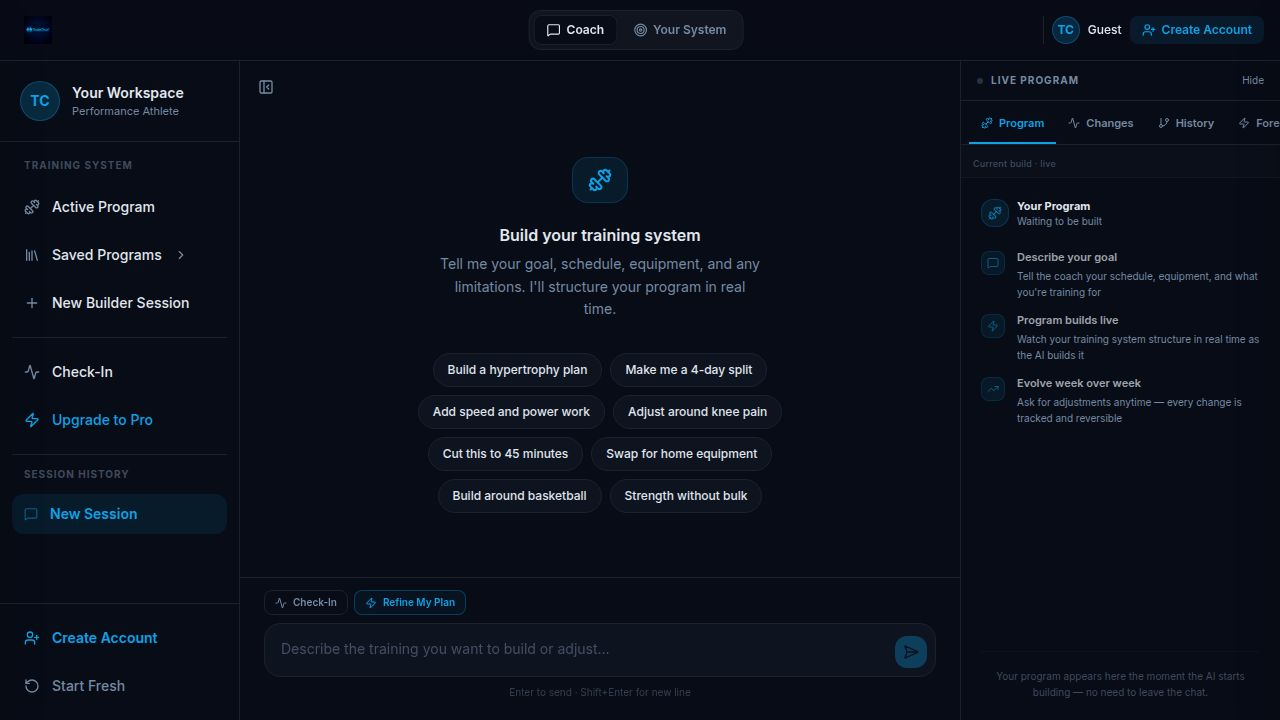
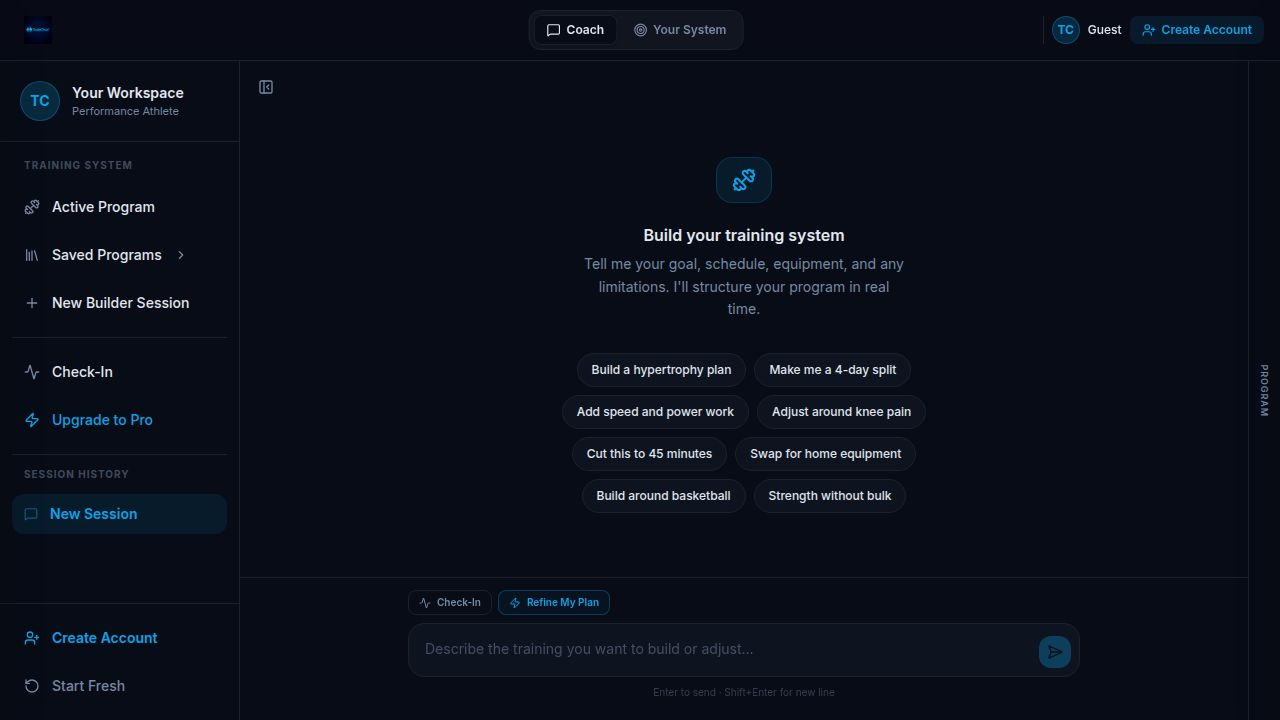
Improve scrolling behavior in chat to prevent unwanted page jumps
Remove several instances of `window.scrollTo({ top: 0 })` and the `visualViewport` resize listener from `chat.tsx` to stabilize scrolling, especially for anonymous users.

Replit-Commit-Author: Agent
Replit-Commit-Session-Id: f4cd81e6-4c30-489e-8296-77b2feafe4b3
Replit-Commit-Checkpoint-Type: full_checkpoint
Replit-Commit-Event-Id: c2d1fbe0-b381-4fca-935c-c738434bf223
Replit-Commit-Screenshot-Url: https://storage.googleapis.com/screenshot-production-us-central1/59f415d3-f9ee-4c3a-be88-6f400138b25b/f4cd81e6-4c30-489e-8296-77b2feafe4b3/ZxaoOsf
Replit-Helium-Checkpoint-Created: true

diff --git a/artifacts/trainchat/src/pages/chat.tsx b/artifacts/trainchat/src/pages/chat.tsx
@@ -419,32 +419,8 @@ export default function Chat() {
     if (!userScrolledUpRef.current && messagesEndRef.current) {
       messagesEndRef.current.scrollIntoView({ behavior: "smooth", block: "end" });
     }
-    // Re-anchor the page viewport to the agent section for anonymous/deviceId users.
-    // Prevents new messages / SSE stream growth from drifting the page into the
-    // conversion floor below the 100dvh workspace.
-    if (!!(me as any)?.isAnonymous) {
-      window.scrollTo({ top: 0, behavior: "instant" as ScrollBehavior });
-    }
   }, [messages, stream.isActive, stream.state.phase, stream.state.acknowledgment, me]);
 
-  // Mobile Safari / iOS keyboard fix for anonymous users.
-  // When the virtual keyboard opens, Safari scrolls the document to keep the
-  // focused input visible. For anonymous users this pushes the viewport into
-  // the conversion floor. visualViewport "resize" fires when the keyboard
-  // opens/closes — we use it to snap back to the top of the page.
-  useEffect(() => {
-    const vv = window.visualViewport;
-    if (!vv || !(me as any)?.isAnonymous) return;
-
-    function handleViewportResize() {
-      requestAnimationFrame(() => {
-        window.scrollTo({ top: 0, behavior: "instant" as ScrollBehavior });
-      });
-    }
-
-    vv.addEventListener("resize", handleViewportResize);
-    return () => vv.removeEventListener("resize", handleViewportResize);
-  }, [me]);
 
   // Panel auto-open rules:
   // 1. On load — opens once when the user's first program is detected (see useEffect below).
@@ -569,12 +545,6 @@ export default function Chat() {
     // Immediately scroll to the bottom sentinel so the user message is visible.
     if (messagesEndRef.current) {
       messagesEndRef.current.scrollIntoView({ behavior: "smooth", block: "end" });
-    }
-
-    // Anchor page viewport to agent section immediately on send for anonymous users.
-    // This prevents the conversion floor from entering view during the stream.
-    if (!!(me as any)?.isAnonymous) {
-      window.scrollTo({ top: 0, behavior: "instant" as ScrollBehavior });
     }
 
     // During a new build session: strip old program identity from the UI context
@@ -1273,9 +1243,6 @@ export default function Chat() {
 
   return (
     <>
-    {/* Agent workspace anchor — always sits at scroll position 0 of the document.
-        For anonymous users the page is taller than 100dvh (conversion floor below),
-        so we use this ref + window.scrollTo(0,0) to re-anchor during interactions. */}
     <div ref={agentSectionRef} style={{ overflowAnchor: "none" }}>
     <MobileSlideLayout
       activePanel={mobilePanel}
@@ -1743,17 +1710,6 @@ export default function Chat() {
                     const t = e.target as HTMLTextAreaElement;
                     t.style.height = "auto";
                     t.style.height = Math.min(t.scrollHeight, 160) + "px";
-                  }}
-                  onFocus={() => {
-                    // On mobile, focusing the input causes the browser to scroll to keep
-                    // it visible. For anonymous users this can push the page into the
-                    // conversion floor. Use rAF to re-anchor after the browser finishes
-                    // its native scroll-to-focus behaviour.
-                    if (!!(me as any)?.isAnonymous) {
-                      requestAnimationFrame(() => {
-                        window.scrollTo({ top: 0, behavior: "instant" as ScrollBehavior });
-                      });
-                    }
                   }}
                 />
                 <button